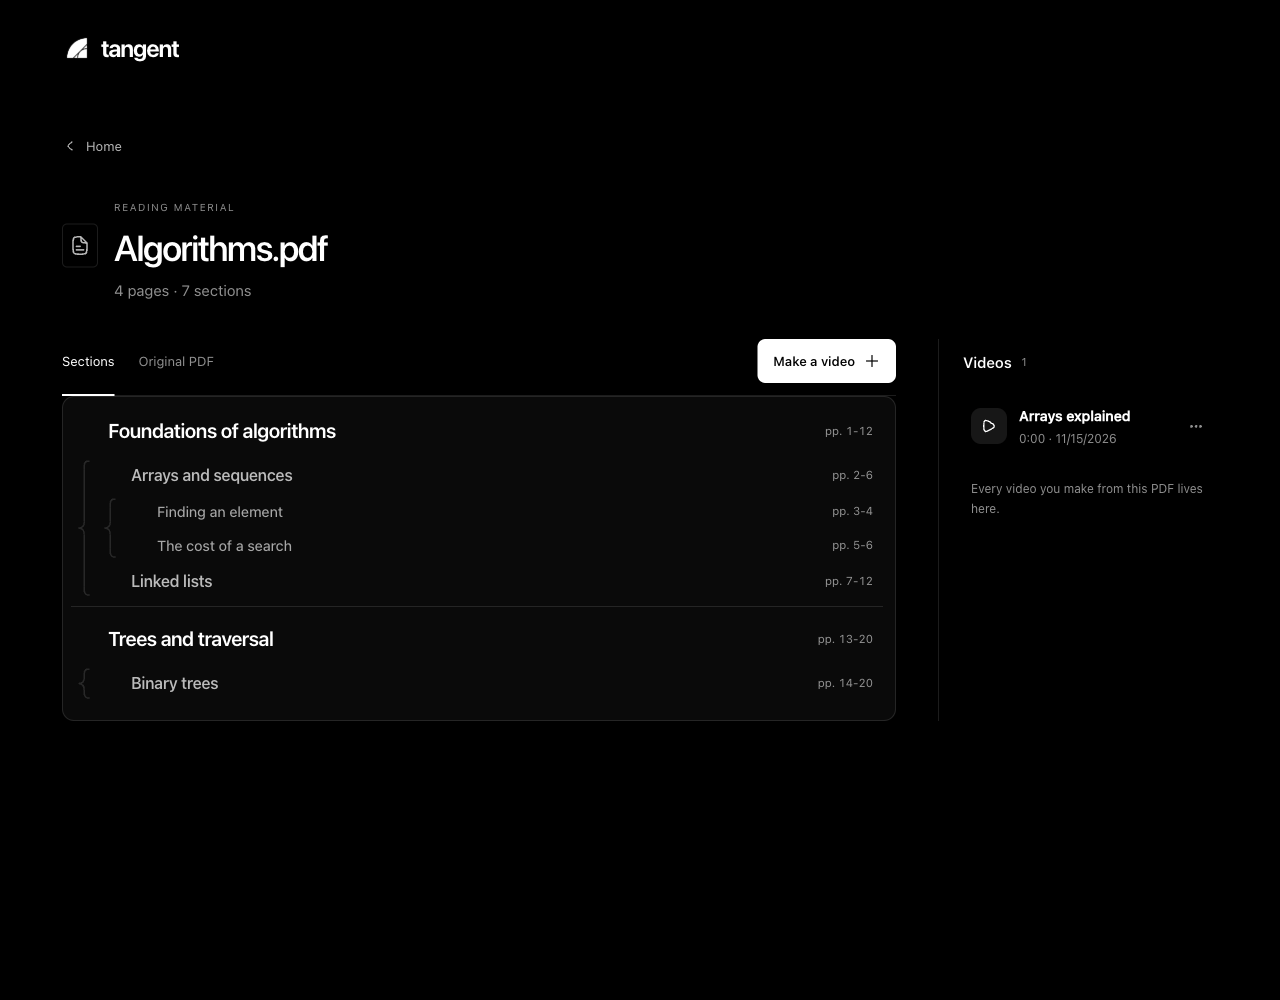
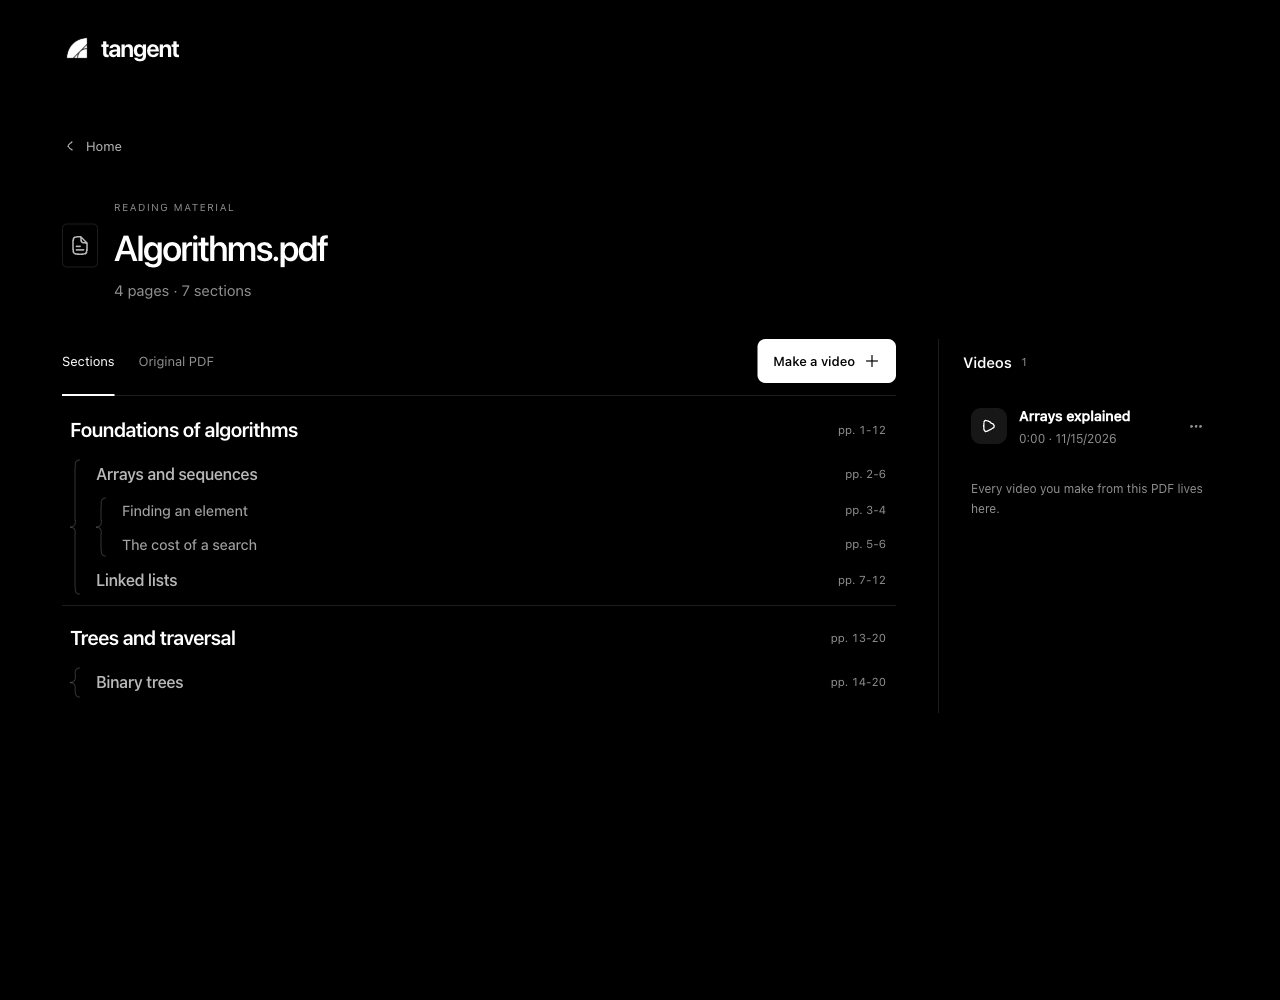
Refresh browse proof after rebasing onto the existing picker

diff --git a/src/home/sectionPicker.css b/src/home/sectionPicker.css
@@ -23,7 +23,7 @@
 .tl-picker .pk-brace-in { display:flex; flex-direction:column; height:100%; width:12px; pointer-events:none; }
 .tl-picker .pk-brace svg { display:block; flex:none; width:12px; fill:none; stroke:currentColor; stroke-width:var(--bw); stroke-linecap:round; stroke-linejoin:round; overflow:visible; }
 .tl-picker .pk-stem { flex:1 1 0; min-height:0; width:var(--bw); margin-left:calc(6.2px - var(--bw) / 2); background:currentColor; border-radius:1px; }
-.tl-picker .pk-brace:disabled { cursor:default; pointer-events:none; }
+.tl-picker .pk-brace:disabled { opacity:1; cursor:default; pointer-events:none; }
 .tl-picker .pk-brace:hover { color:rgba(255,255,255,.7); }
 .tl-picker .pk-brace[data-state=some] { color:color-mix(in srgb,var(--pk-accent) 45%,transparent); }
 .tl-picker .pk-brace[data-state=full] { color:var(--pk-accent); }

diff --git a/docs/areas/library.md b/docs/areas/library.md
@@ -17,7 +17,7 @@ Area note. Read with `CLAUDE.md`. Newest Log entries first, ≤ 6 lines each.
 - 2026-11-15 Make a video shows "about N min" beside Overview, Standard, Detailed and Complete. Length follows the sections you pick and the detail (`estimateMinutesFor` × 6.92 s/beat). Proof: Home and SourceView tests; Orca screenshot of the picker. Not verified: estimate vs a newly generated video.
 - 2026-11-16 Default Sections now reuses the existing SectionPicker in browse mode; Make a video switches the same component into selection, preserving the approved white hairline braces and heading/page layout.
   Browse exposes no selection state and keeps clicks inert; keyboard movement and reduced-motion CSS are retained, alongside multi-source selection.
-  Evidence: affected component/importer tests, TypeScript, static SourceView fixture and refreshed Orca screenshots `source-{browse,select,selected}.png`.
+  Evidence: 47 passing tests and one existing skip across SectionPicker, SourceView, Home, sectionTree and App; TypeScript, static SourceView fixture and refreshed Orca screenshots `source-{browse,select,selected}.png`.
   Not verified: native WKWebView, physical touch or screen reader; no model runs.
 
 - 2026-11-16 One video can take sections from a second source: "Add another source" on the picker, then back; the selected list names each source. Default one-source Make a video is unchanged. Bundles gain optional `source.id` / `source.also` and per-beat `sourceIds`; a bundle without them still replays. Evidence: SourceView and videos tests. Not verified: a real two-file generation.
@@ -28,5 +28,4 @@ Area note. Read with `CLAUDE.md`. Newest Log entries first, ≤ 6 lines each.
 - 2026-11-16 Section picker on the source screen (plan step 9, round-1 A braces): `SectionPicker` replaces checkboxes while choosing sections. Hairline braces (round-1 B weight, 20% white), white accent, title or brace selects the subtree; `topSelected` still supplies generation ids. Partial, keyboard, reduced motion, 600px. Proof: `src/home` tests + `App.test.tsx` passed; screenshots `source-*` next to `ref-a-*` in `docs/ui-review/section-picker/`. Not verified: touch, screen reader, WKWebView.
 - 2026-11-15 Section picker mockups round 2: `section-picker.html` now shows 3 variants of B's thin lines + brace flair (`?v=1` curl tip, `2` midpoint pinch, `3` curl elbows; `fx=shallow`, `sel=partial`). No checkboxes, white accent, trunk/title click selects the section, bolder headings per level. Proof: `tsc --noEmit` clean; 12 screenshots `c1-`..`c3-` (deep, shallow, keyboard, selected) in `docs/ui-review/section-picker/`. Not verified: touch, screen reader, WKWebView rendering.
 - 2026-11-16 Section picker round 2 redo: `src/dev/section-picker.*` now two finished variants, A Tree (hairline tree, curled last elbow, brace nub) and B Brace (no row ticks; hooks at group ends + nub), white accent, no checkboxes (state dot, tint, white trunks), bold heading scale, pages right. Fixed in review: ticks overlapping selected-row tint, nub crowding elbows (now groups of 3+), brace ticks leaking via shared class. Proof: `tsc --noEmit` clean; 10 screenshots in `docs/ui-review/section-picker/` (tree-/brace- x deep, shallow, partial, keyboard, width600; old a-/b-/c* removed). Not verified: real 2x display, WKWebView, screen reader.
-
 - 2026-11-15 Section picker mockups (plan step 8): `src/dev/section-picker.html` (A braces, B lines; deep ~535-row and shallow 43-row fixtures; `?v=a|b&fx=shallow&sel=partial`). Shared tree model, click/drag/keyboard, partial state. Proof: `tsc --noEmit` clean; 10 screenshots in `docs/ui-review/section-picker/`. Not verified: real touch, screen reader, Safari/WKWebView rendering. Owner picks A or B, then step 9 builds it into SourceView.

diff --git a/docs/history.md b/docs/history.md
@@ -3,6 +3,7 @@
 Verbatim dated narrative moved out of `CLAUDE.md` (T1, 2026-11-15). Newest first. Prepend one line per finished task.
 
 - 2026-11-15 Make a video estimates length from the selected sections and detail level (about N min; 6.92 s/beat from saved bundles).
+- 2026-11-16 Default Sections shares the existing white-brace SectionPicker with selection mode; rebased onto current v1, preserving multi-source behavior, with affected tests, TypeScript and refreshed Orca fixture screenshots; native touch/WKWebView/screen reader unverified.
 - 2026-11-16 Step 25: rebuilt v1 after #40/#41; ad-hoc/no runtime, fresh setup/nonblank main, saved WebAudio playback, Textbook rendering and SIGTERM sidecar cleanup pass; owner still to hear audio/check PPTX + ring; app retained, updater signing key absent (see docs/mac-smoke-2026-11.md).
 
 - 2026-11-16 Step 12: 52 real cloud Haiku checks; retained original prompt (2/41 correct beats falsely flagged, 6/6 wrong caught), rejected one tweak (2/41, 5/6); enabled fact-check in production sessions and added exact public-recording eval coverage; small-sample and synthetic-only limits in docs/areas/gen.md.
@@ -52,7 +53,6 @@ Verbatim dated narrative moved out of `CLAUDE.md` (T1, 2026-11-15). Newest first
 - 2026-11-16 Script prompt rule 8 (everyday words) and a stiff-word lint; style slips still repair, then pass if they cover at most 10% of beats.
 - 2026-11-16 Player loading: drawn ring and one stage line while the first scene or the next scene is not ready (`src/player/Loading.tsx`).
 - 2026-11-15 Player seek bar shows a striped generating remainder with scene-count hover hint, static reduced-motion fallback, and no replay indicator; 43 player/App tests, TypeScript and Orca fixture screenshots verified.
-- 2026-11-16 Default Sections shares the existing white-brace SectionPicker with selection mode; rebased onto current v1, preserving multi-source behavior, with affected tests, TypeScript and refreshed Orca fixture screenshots; native touch/WKWebView/screen reader unverified.
 
 - 2026-11-15 Section picker mockups (braces vs lines) on `src/dev/section-picker.html`; screenshots in `docs/ui-review/section-picker/`; owner picks one (plan step 9).
 - 2026-11-15: Hardened long-PDF page loading with logged errors, viewport retry/cancellation, two open documents, poison recovery and fresh-cache protection; generated 320-page stress and focused frontend tests pass; owner PDF/WKWebView and Windows/Linux unverified.
